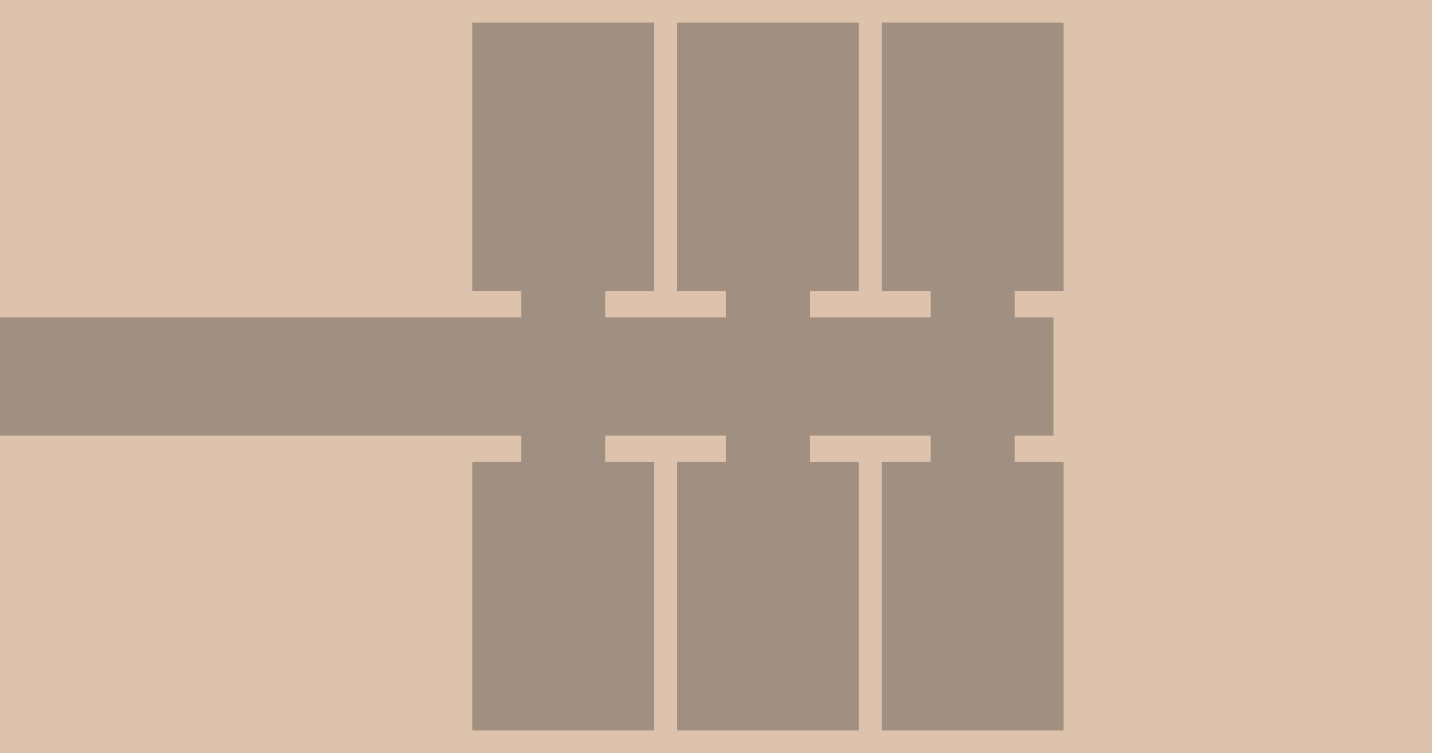
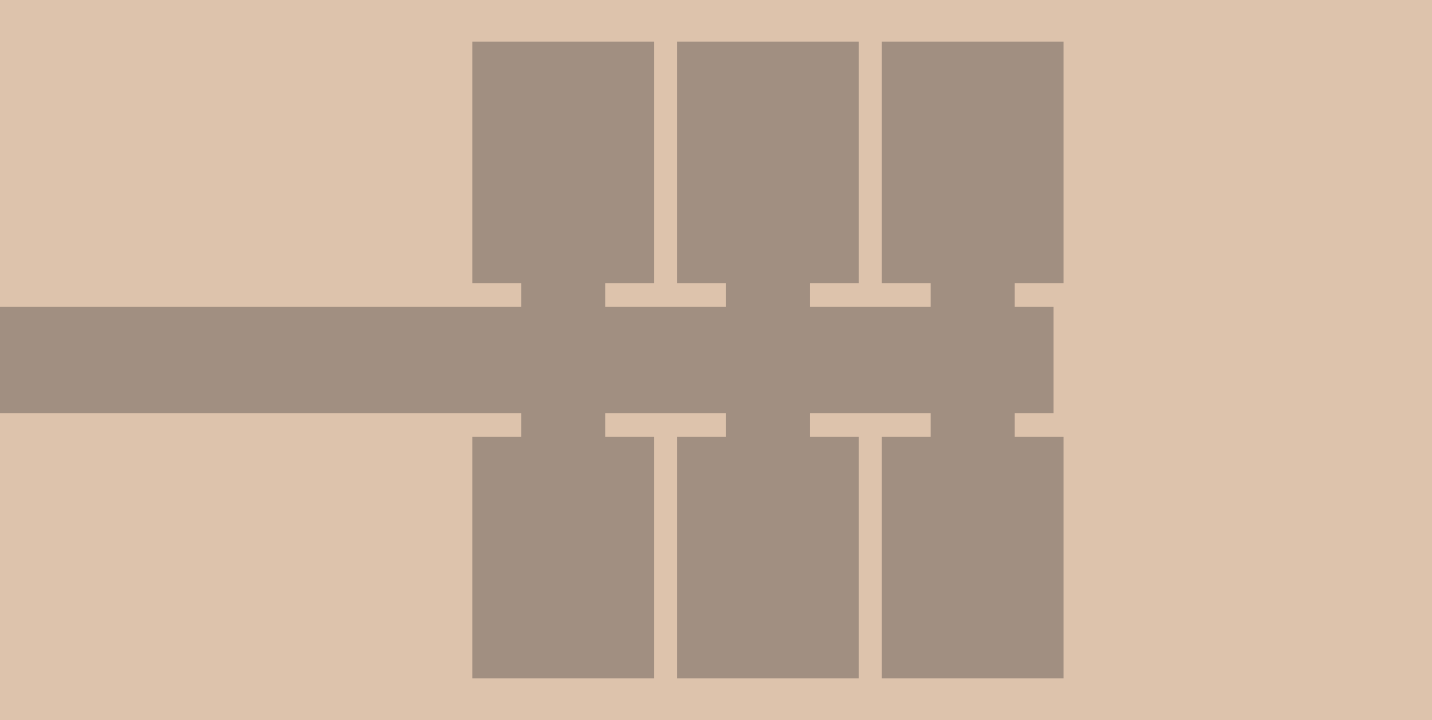
Finished guest assignment. Now for the trivial task of showing the outcome...

diff --git a/index.html b/index.html
@@ -19,6 +19,9 @@ var peopleList = [
         intro: "The name's Smith. Septimus Smith.",
         animation: "standing",
         animationT: 0,
+        x: 0,
+        y: 0,
+        active: false
     },
     {
         id: "werewolf",
@@ -31,6 +34,9 @@ var peopleList = [
         intro: "Lovely moon tonight, er, right?",
         animation: "standing",
         animationT: 0,
+        x: 0,
+        y: 0,
+        active: false
     },
     {
         id: "murderer",
@@ -42,6 +48,9 @@ var peopleList = [
         intro: "I am Mister Grusko. One room, please.",
         animation: "standing",
         animationT: 0,
+        x: 0,
+        y: 0,
+        active: false
     },
     {
         id: "suicide",
@@ -53,6 +62,9 @@ var peopleList = [
         intro: "It's OK if I pay in the morning, right?",
         animation: "standing",
         animationT: 0,
+        x: 0,
+        y: 0,
+        active: false
     },
     {
         id: "cultist",
@@ -65,6 +77,9 @@ var peopleList = [
         intro: "Greetings. Is my room ready?",
         animation: "standing",
         animationT: 0,
+        x: 0,
+        y: 0,
+        active: false
     },
     {
         id: "snorer",
@@ -75,6 +90,9 @@ var peopleList = [
         intro: "Can't wait for a good night's sleep, eh?",
         animation: "standing",
         animationT: 0,
+        x: 0,
+        y: 0,
+        active: false
     },
     {
         id: "granny",
@@ -84,6 +102,9 @@ var peopleList = [
         intro: "Hello, dearie.",
         animation: "standing",
         animationT: 0,
+        x: 0,
+        y: 0,
+        active: false
     },
     {
         id: "priest",
@@ -94,6 +115,9 @@ var peopleList = [
         intro: "Hello.",
         animation: "standing",
         animationT: 0,
+        x: 0,
+        y: 0,
+        active: false
     },
     {
         id: "vamp",
@@ -105,6 +129,9 @@ var peopleList = [
         intro: "Hi! *giggles*",
         animation: "standing",
         animationT: 0,
+        x: 0,
+        y: 0,
+        active: false
     },
     {
         id: "vampire",
@@ -121,7 +148,10 @@ var peopleList = [
             size: 80,
             speed: 0.5,
             life: 500
-        }
+        },
+        x: 0,
+        y: 0,
+        active: false
     },
     {
         id: "thief",
@@ -132,6 +162,9 @@ var peopleList = [
         intro: "Lovely hotel you've got here.",
         animation: "standing",
         animationT: 0,
+        x: 0,
+        y: 0,
+        active: false
     },
     {
         id: "insomniac",
@@ -143,6 +176,9 @@ var peopleList = [
         intro: "I'd like your quietest room.",
         animation: "standing",
         animationT: 0,
+        x: 0,
+        y: 0,
+        active: false
     },
 ];
 var people = {};
@@ -151,6 +187,7 @@ for (var i = 0; i < peopleList.length; i++) {
 }
 
 // State
+var night = false;
 var intro = true;
 var managerOut = true;
 var introLine = 0;
@@ -172,58 +209,67 @@ var rooms = [
     {
         name: "Room 1",
         x: 256,
-        y: 0,
+        y: 31.5,
         w: 182,
-        h: 265,
+        h: 242,
         occupant: null
     },
     {
         name: "Room 2",
         x: 256 + 205,
-        y: 0,
+        y: 31.5,
         w: 182,
-        h: 265,
+        h: 242,
         occupant: null
     },
     {
         name: "Room 3",
         x: 256 + 205 * 2,
-        y: 0,
+        y: 31.5,
         w: 182,
-        h: 265,
+        h: 242,
         occupant: null
     },
     {
         name: "Room 4",
         x: 256 + 205 * 2,
-        y: 435,
+        y: 426.5,
         w: 182,
-        h: 265,
+        h: 242,
         occupant: null
     },
     {
         name: "Room 5",
         x: 256 + 205,
-        y: 435,
+        y: 426.5,
         w: 182,
-        h: 265,
+        h: 242,
         occupant: null
     },
     {
         name: "Room 6",
         x: 256,
-        y: 435,
+        y: 426.5,
         w: 182,
-        h: 265,
+        h: 242,
         occupant: null
     }
 ];
+
+function isFull() {
+    for (var i = 0; i < rooms.length; i++) {
+        if (!rooms[i].occupant) { return false; }
+    }
+    return true;
+}
 
 function pickGuest() {
     var ids = peopleList.map(function(p) { return p.id; }).filter(function(id) { return !guestIDs[id]; });
     var guestID = ids[Math.floor(Math.random() * ids.length)];
     guestIDs[guestID] = 1;
-    return people[guestID];
+    var guest = people[guestID];
+    animate(guest, guest.introParticles ? "standing" : "walking");
+    return guest;
 }
 
 function animate(person, animation) {
@@ -242,6 +288,7 @@ function animTick(person, ms) {
 var animLengths = {
     activating: 770,
     walking: 100000,
+    standing: 100000,
     killing: 1000,
     neutralizing: 2000,
     seducing: 2000,
@@ -252,16 +299,26 @@ var animLengths = {
 };
 
 function input(ms) {
-    if (assignGuest) {
+    if (night) {
+        // Just watch.
+    } else if (assignGuest) {
         if (click) {
             for (var i = 0; i < rooms.length; i++) {
                 var room = rooms[i];
                 if (!room.occupant && click.x / scale > room.x + w / 2 - 500 && click.x / scale < room.x + room.w + w / 2 - 500 && click.y / scale > room.y && click.y / scale < room.y + room.h) {
                     room.occupant = guest;
-                    guest = pickGuest();
-                    guestWait = 500;
-                    assignGuest = false;
-                    guestSaidHello = false;
+                    guest.x = room.x + room.w / 2;
+                    guest.y = room.y + room.h / 2;
+                    if (isFull()){
+                        guest = null;
+                        assignGuest = false;
+                        night = true;
+                    } else {
+                        guest = pickGuest();
+                        guestWait = 500;
+                        assignGuest = false;
+                        guestSaidHello = false;
+                    }
                 }
             }
         }
@@ -279,9 +336,9 @@ function input(ms) {
             managerX += ms * 2;
             if (managerX > 1200) {
                 managerOut = false;
-                guestWait = 100;
+                guestWait = 500;
             }
-        } else if (guestWait == 0 && !guestSaidHello && click) {
+        } else if (guestWait == 0 && !guestSaidHello) {
             guestSaidHello = true;
             animate(guest, "talking");
         } else if (guestWait == 0 && guestSaidHello && click && cursor.x / scale > w / 2 - 100 && cursor.x / scale < w / 2 + 100 && cursor.y / scale > 600 && cursor.y / scale < 650) {
@@ -309,6 +366,7 @@ function update(ms) {
     if (guestWait > 0) {
         guestWait = Math.max(0, guestWait - ms);
         if (guestWait == 0) {
+            animate(guest, "standing");
             if (guest.introParticles) {
                 for (var i = 0; i < guest.introParticles.number; i++) {
                     var angle = Math.random() * Math.PI * 2;
@@ -444,7 +502,20 @@ function draw() {
     w = canvas.width / scale;
     h = 700;
     c.scale(scale, scale);
-    if (assignGuest) {
+    if (night) {
+        img("rooms-night", w / 2, h / 2);
+        c.translate(w / 2 - 500, 0);
+        for (var i = 0; i < rooms.length; i++) {
+            var room = rooms[i];
+            var occupant = room.occupant;
+            c.translate(occupant.x, occupant.y);
+            c.scale(0.2, 0.2);
+            person(occupant, 0, 0, occupant.active);
+            c.resetTransform();
+            c.scale(scale, scale);
+            c.translate(w / 2 - 500, 0);
+        }
+    } else if (assignGuest) {
         img("rooms", w / 2, h / 2);
         c.translate(w / 2 - 500, 0);
         for (var i = 0; i < rooms.length; i++) {
@@ -483,6 +554,12 @@ function draw() {
         img("lobby-bg", w / 2, h / 2);
         if (guestWait == 0) {
             person(guest, w / 2, h / 2, false);
+        } else if (!guest.introParticles) {
+            c.translate(w / 2, h / 2 + guestWait / 6);
+            c.scale(1 - guestWait / 600, 1 - guestWait / 600);
+            person(guest, 0, 0);
+            c.resetTransform();
+            c.scale(scale, scale);
         }
         for (var i = 0; i < particles.length; i++) {
             var p = particles[i];
